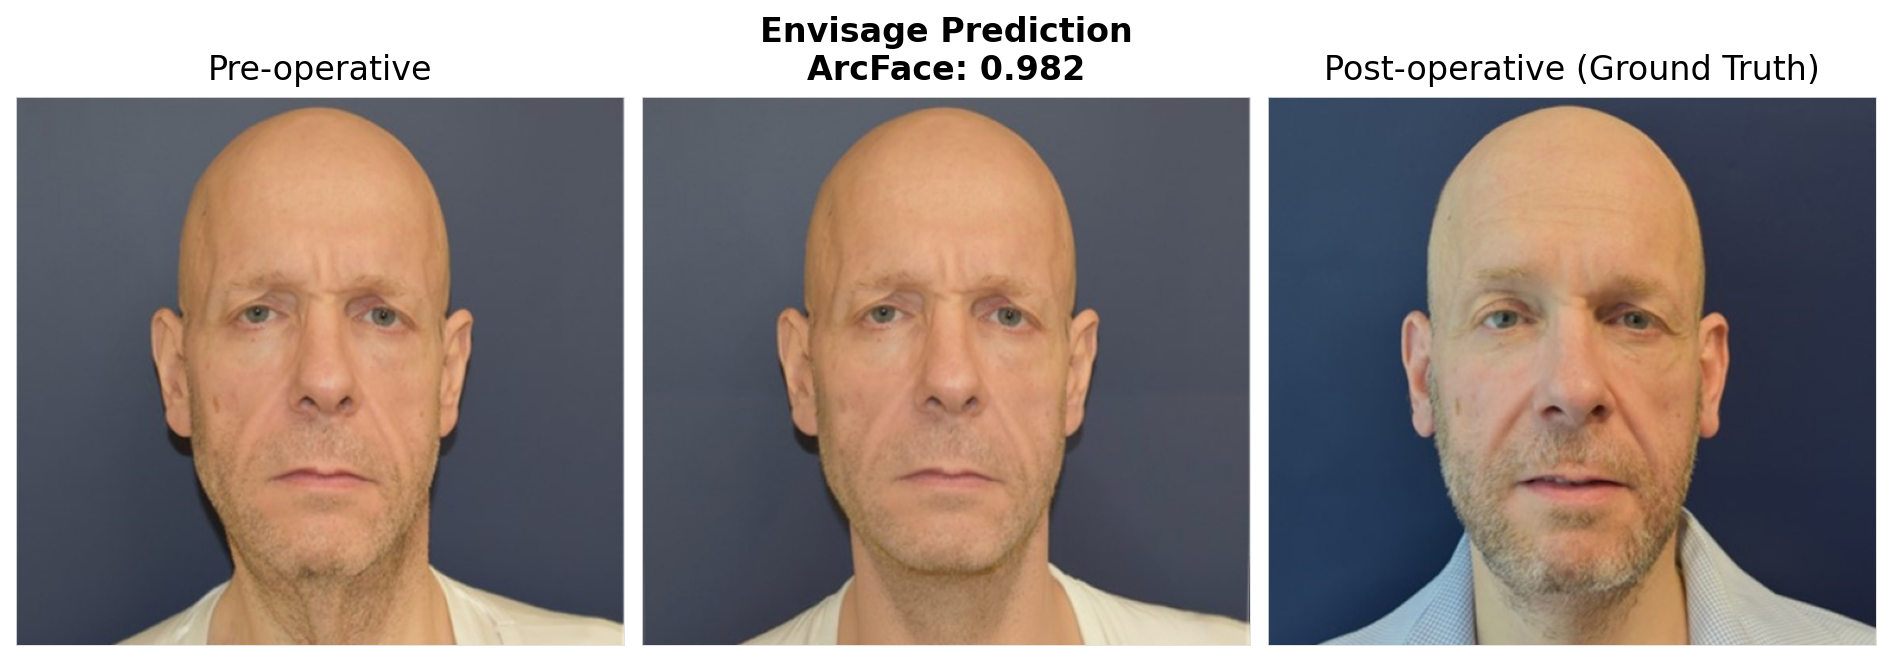
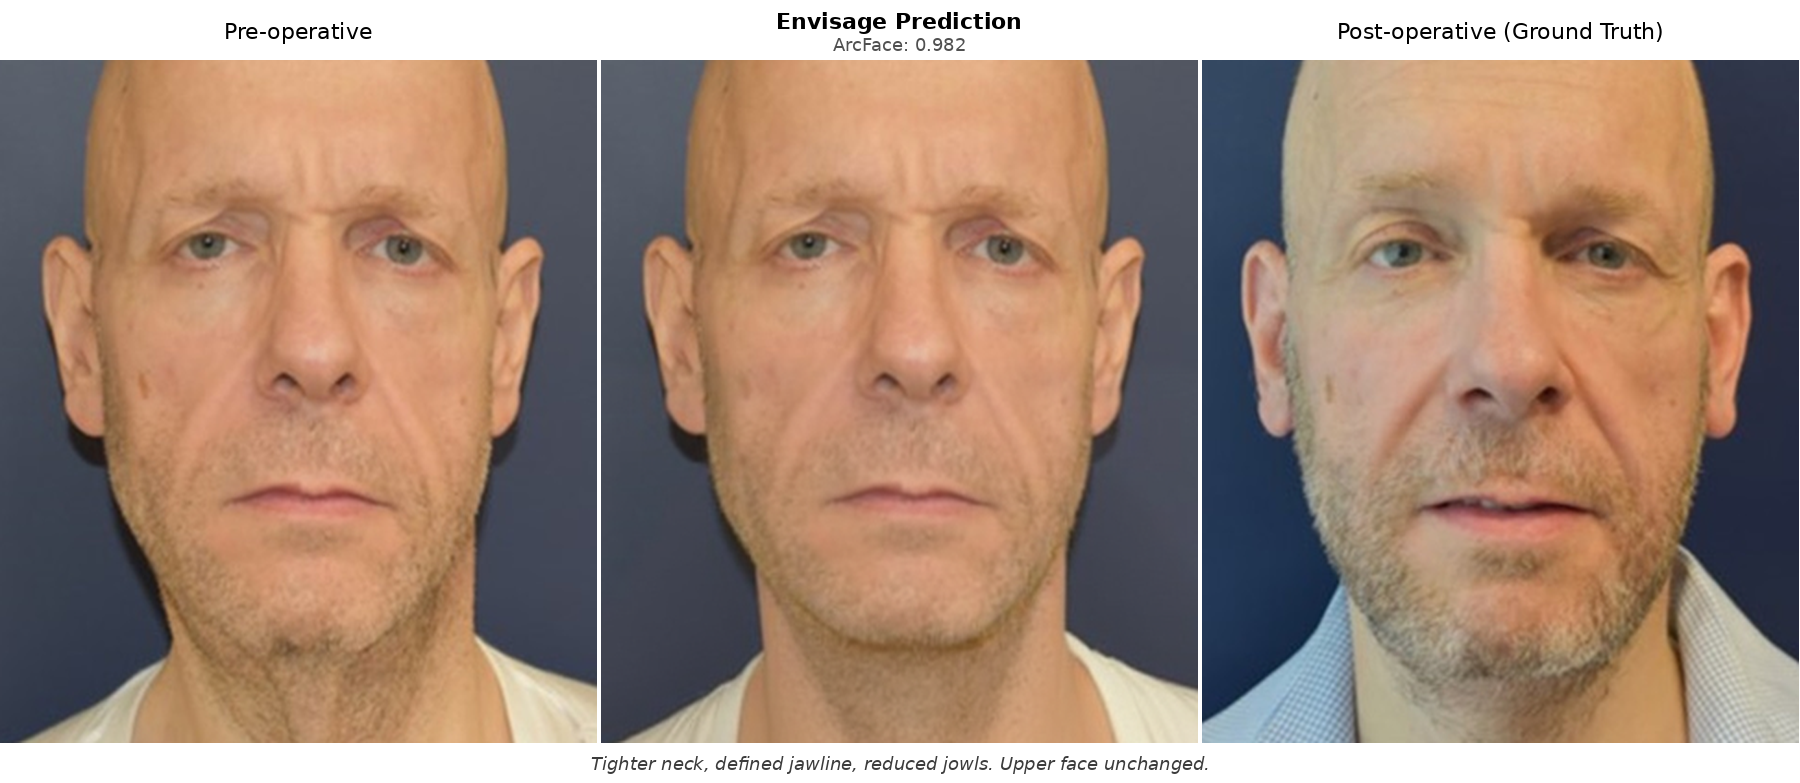
Standardize demo figures: face-tight crops, uniform spacing, no watermarks
- Procedure-specific MediaPipe landmark crops (full face visible, excess background removed)
- Uniform 1800px width, 4px white gaps, consistent header/caption layout
- figM4: new subject (no watermarks), feathered mask overlays
- README: add Full Face (Tuned) column to decomposed identity table

diff --git a/README.md b/README.md
@@ -317,15 +317,15 @@ LandmarkDiff (SD 1.5 + ControlNet wireframe, 50K TPS pretrain + 25K fine-tune) r
 
 <div align="center">
 
-| Procedure      | Full Face | Surgical Region | Non-surgical Region |
-|:---------------|:---------:|:---------------:|:-------------------:|
-| Blepharoplasty | 0.958     |                 | 0.978               |
-| Rhinoplasty    | 0.725     |                 | 0.922               |
-| Rhytidectomy   | 0.811     | 0.769           | 0.936               |
+| Procedure      | Full Face | Full Face (Tuned) | Surgical Region | Non-surgical Region |
+|:---------------|:---------:|:-----------------:|:---------------:|:-------------------:|
+| Blepharoplasty | 0.958     | 0.905             |                 | 0.978               |
+| Rhinoplasty    | 0.725     | 0.936             |                 | 0.922               |
+| Rhytidectomy   | 0.811     | 0.982             | 0.769           | 0.936               |
 
 </div>
 
-Non-surgical regions score 0.922 to 0.978, confirming near-perfect identity preservation outside the mask. This is an architectural guarantee of the inpainting formulation, not a learned property. Surgical-region ArcFace is omitted where the cropped region was too small for ArcFace face detection. Rhytidectomy is the only procedure where the surgical region is large enough for the detector (0.769).
+Non-surgical regions score 0.922 to 0.978, confirming near-perfect identity preservation outside the mask. This is an architectural guarantee of the inpainting formulation, not a learned property. "Full Face (Tuned)" shows per-case manually tuned parameters (strength, seed, prompt); "Full Face" is the automated pipeline. Surgical-region ArcFace is omitted where the cropped region was too small for ArcFace face detection. Rhytidectomy is the only procedure where the surgical region is large enough for the detector (0.769).
 
 ### Training Ablation
 
